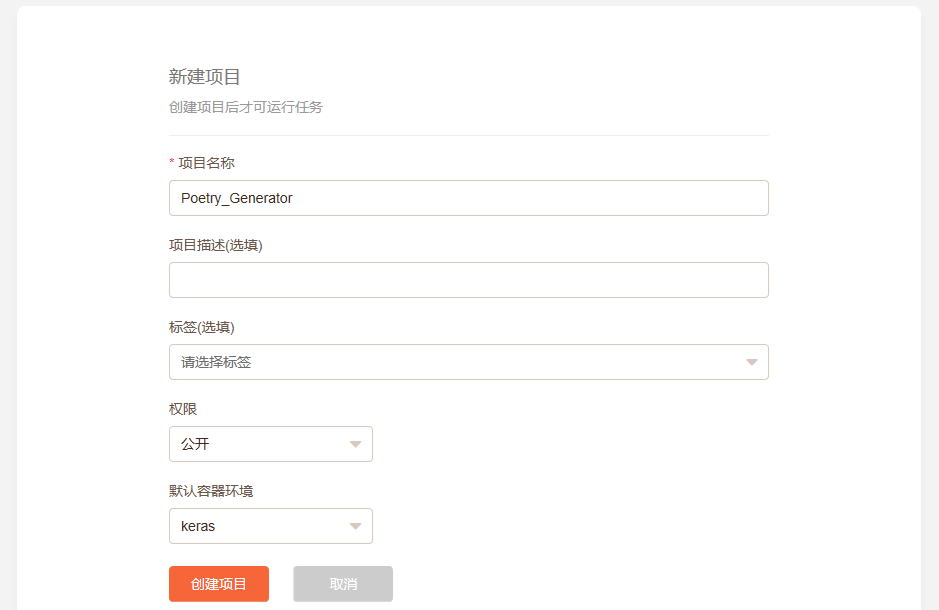
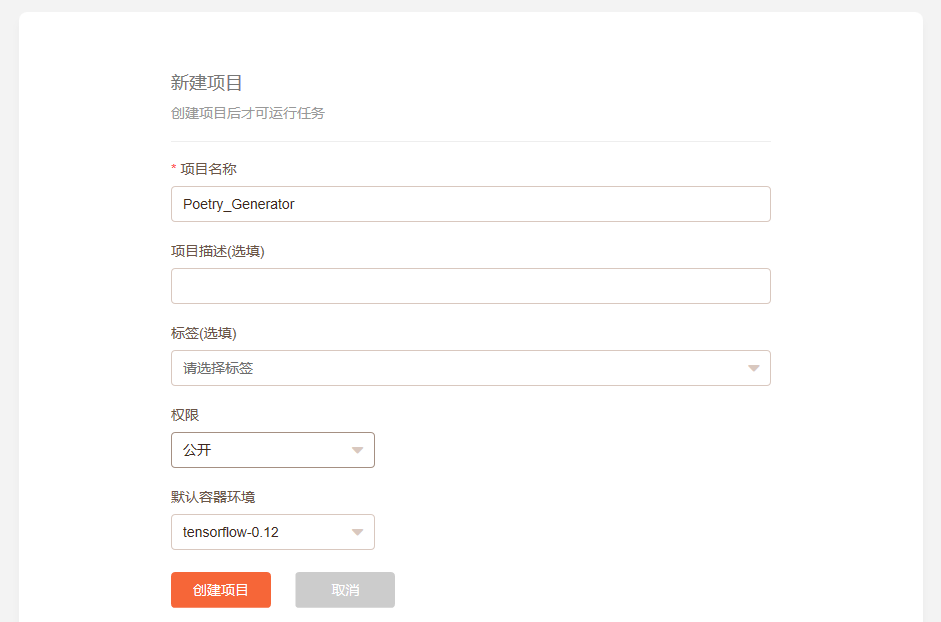
Example poetry-generator update

diff --git a/example/poetry-generator.md b/example/poetry-generator.md
@@ -3,7 +3,8 @@
 
 您将在这个例子中学会：
 - 如何使用已有数据集训练自己的模型
-- 如何使用自己训练的模型
+- 输出模型为数据集便于以后操作使用
+- 使用输出的中间模型
 
 ---
 
@@ -27,11 +28,11 @@ $ git clone https://github.com/RussellCloud/poetry_generator
 $ russell login
 ```
 
-## 训练模型：
+## 项目准备：
 
 ### 新建项目
 
-点击[项目创建页]创建名为`Poetry_Generator`的项目，默认环境选：`keras` (注意不要选 kera:py2 )
+点击[项目创建页]创建名为`Poetry_Generator`的项目，默认环境选：`tensorflow-0.12` (注意不要选 tensorflow-0.12:py2 )
 
 ![](/asserts/img/poetry-generator-newproject.png)
 
@@ -46,7 +47,10 @@ $ cd poetry-generator
 # 初始化项目
 $ russell init --name Poetry-Generator
 # 或使用russell init --id <项目概览ID>初始化
+$ russell init --id XXX
 ```
+
+## 训练模型
 
 ### 启动训练模型任务
 
@@ -54,32 +58,45 @@ $ russell init --name Poetry-Generator
 
 ```bash
 # 运行模型训练代码并引用数据云上已经准备好的数据集
-$ russell run "python trainer.py" --data ee3da33467b04b4680ab31f523aeea6f:data
-
-# 查看训练日志
-$ russell logs <run_id> 
-
-# 如果未使用GPU机器，则训练需要一个晚上的时间，GPU可以将训练缩短到几十分钟
-# 训练结束后通过info命令获取项目输出output_id
-$ russell info <run_id>
-
+$ russell run "python trainer.py" --data ee3da33467b04b4680ab31f523aeea6f:data --gpu
+# 如果未使用GPU机器，则训练需要一个晚上的时间，使用--gpu参数可以使用GPU机器，将训练缩短到三十分钟
 ```
 
-现在可以直接浏览输出的模型目录：[训练好的模型](http://russellcloud.com/RussellCloud/dataset/poetry_generator_model/versions)
+此代码在训练过程中并没有什么日志输出，但是你可以通过查看主页上的任务运行状况来了解其是否正确运行。如果运行出现问题，一般会在3分钟之内就结束，你需要检查任务日志查找和解决问题。这里也能看到 GPU机器 和 CPU机器 的运行速度差别。
+
+![](/asserts/img/poetry-generator-running.png)
+
+### 输出训练模型
+
+输出训练模型为数据集与查看输出文件类似，都是通过查看网页上运行任务的“输出”一栏来输出。这里输出为一个新建的数据集`poetry-generator-model`。
+
+![](/asserts/img/poetry-generator-outputmodel1.png)
+
+![](/asserts/img/poetry-generator-outputmodel2.png)
+
+你可以直接浏览我们示例输出的模型：[训练好的模型](http://russellcloud.com/RussellCloud/dataset/poetry_generator_model/versions)
 
 
 ## 使用训练的模型生成诗词
-仍然使用我们这个项目，但是这次运行的是生成代码
+
+### 启动诗词生成任务
+
+我们仍然使用这个上传好的项目，但这次运行的是生成代码，而且挂载的也换成了我们刚才生成的模型数据集。已经训练好的模型数据集版本ID：`f030014be22b4965987d5b45f7093711`
+
+```bash
+# 运行诗词生成代码并引用上一步中生成的模型数据，你可以将ID替换为自己生成的模型版本ID，注意：一定不要将版本ID与概览ID混淆
+$ russell run "python gen_poetry.py" --data f030014be22b4965987d5b45f7093711:model
 ```
-# 运行诗词生成代码并引用上一步中生成的模型数据
-# <output_id>是上一步训练过程中通过info命令获取到的id
-# 如跳过上一步，可直接使用预先训练好model的数据集：f030014be22b4965987d5b45f7093711
 
-russell run "python gen_poetry.py" --data f030014be22b4965987d5b45f7093711:model
+### 查看输出的诗词
 
+这个生成诗词代码是直接输出在日志中，所以我们要通过任务ID获取日志，当然你也可以在网站的任务界面直接看日志。
+
+```bash
 #从日志中查看生成的诗词
-russell logs <run_id_2>
-
-#顺利结束
+$ russell logs <run_id>
 ```
 
+运行结果：
+
+![](/asserts/img/poetry-generator-result.png)
